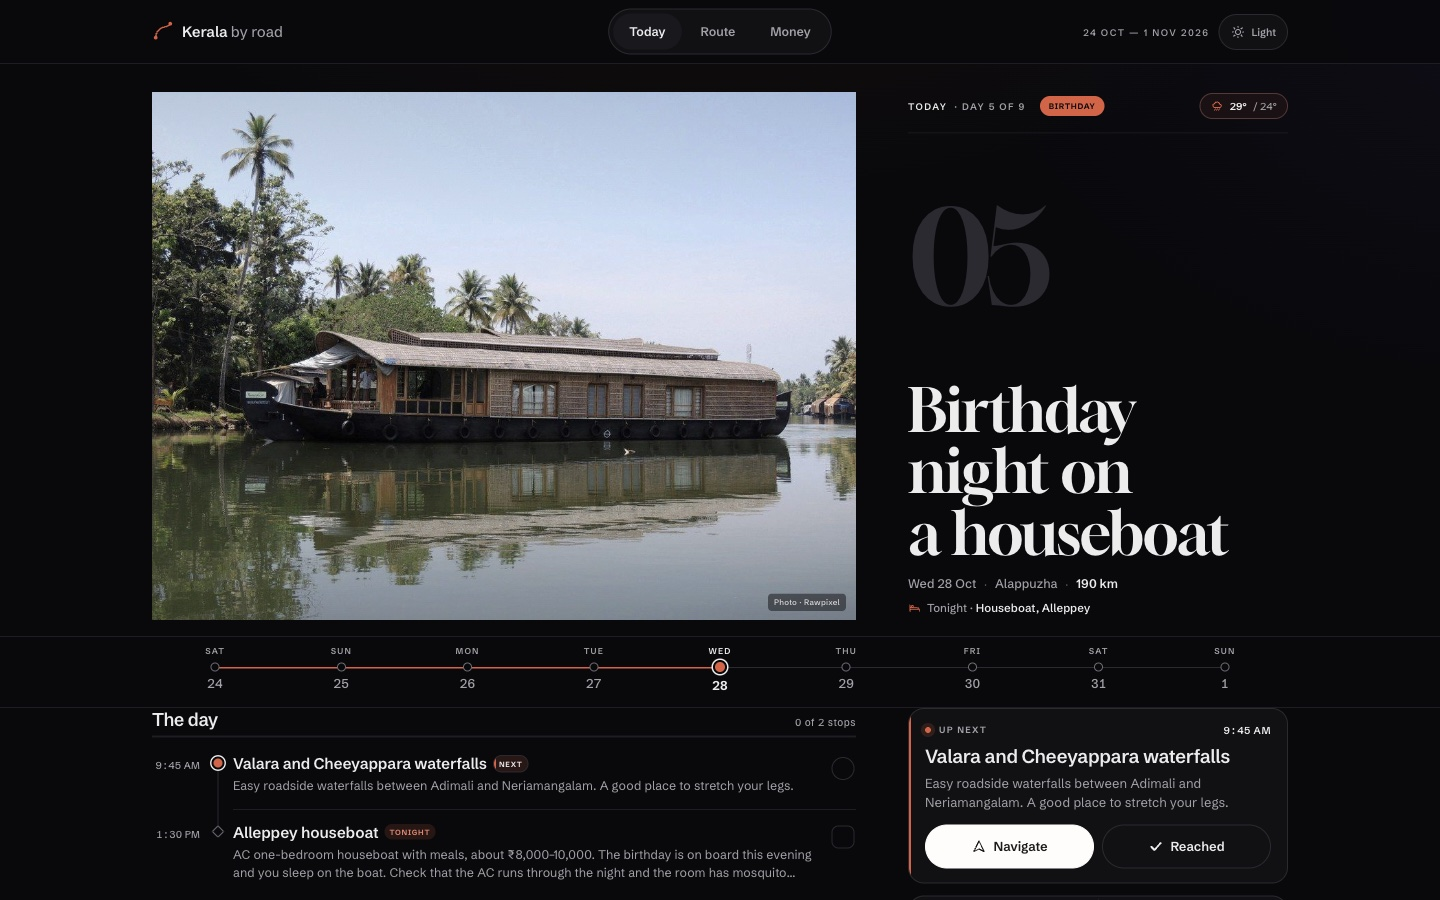
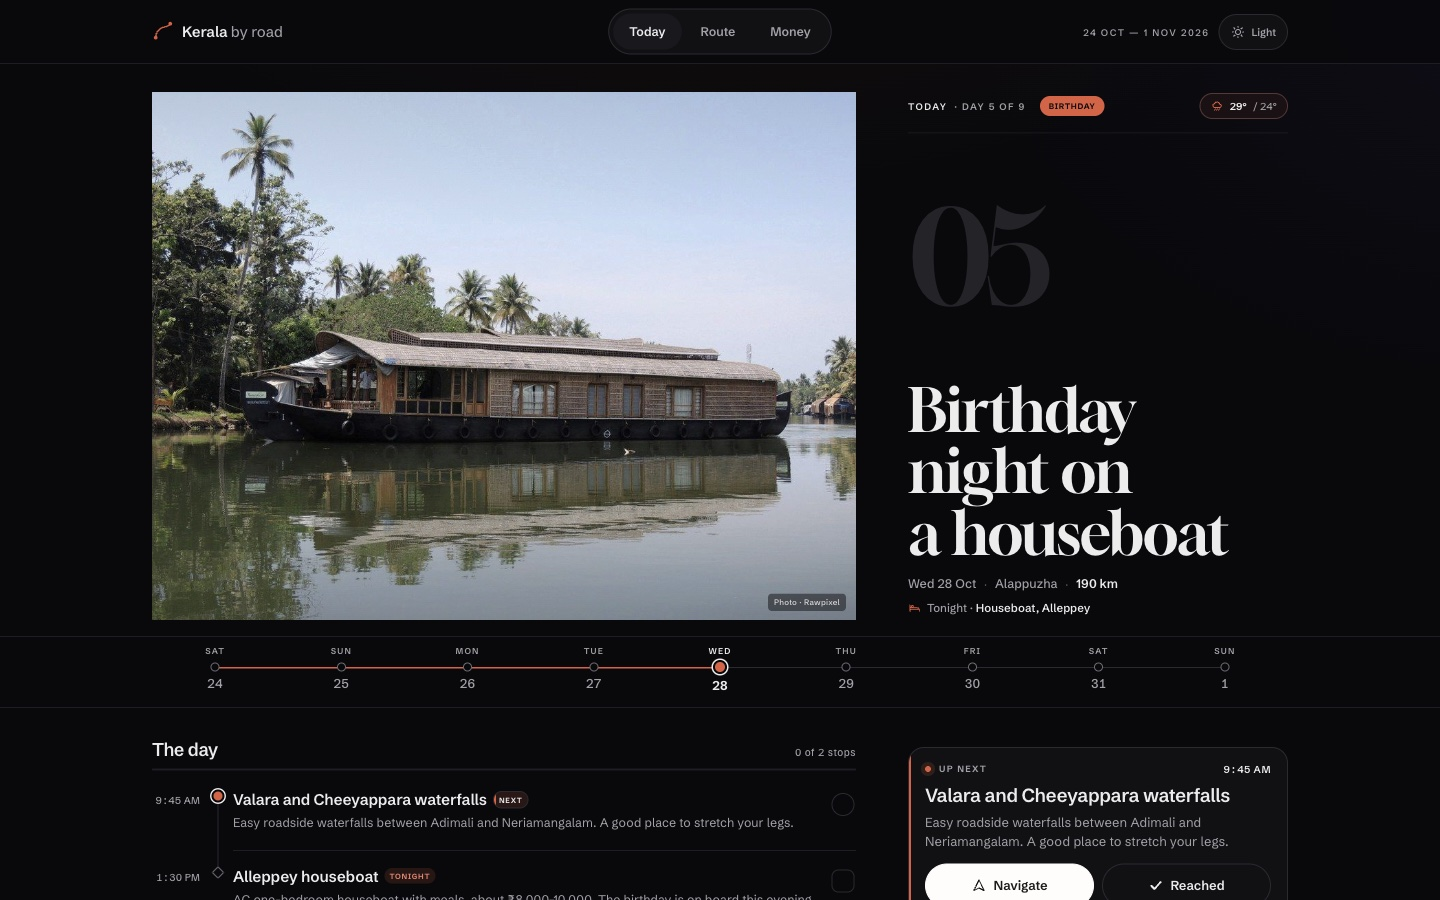
Restore desktop breathing room and fade the day numeral
The desktop width override was resetting the day wrapper's top padding, so the plan and action card sat flush against the journey strip. Restores 30px, loosens the plan rows, aligns the rail card with the section heading, and fades the large day number before it can clip under the sticky header (it was also being held at full opacity by the entrance animation). Cache bumped to v30.

Changed region(s): [[0.0938, 0.7778, 0.5625, 1.0], [0.625, 0.7778, 0.875, 1.0], [0.5625, 0.7778, 0.5938, 0.84]]

diff --git a/index.html b/index.html
@@ -266,7 +266,7 @@ main{display:block}
 .wrap{max-width:var(--content);margin:0 auto;padding:0 20px}
 .page{padding-top:25px}
 .hero-fade{animation:heroIn .6s var(--ease-out) both}
-.hero-fade .day-head>*{animation:heroUp .55s var(--ease-out) both}
+.hero-fade .day-head>*:not(.day-ghost){animation:heroUp .55s var(--ease-out) both}
 .hero-fade .day-head>*:nth-child(2){animation-delay:.04s}
 .hero-fade .day-head>*:nth-child(3){animation-delay:.08s}
 .eyebrow{display:flex;align-items:center;gap:8px;font:600 9.5px/1.4 var(--sans);letter-spacing:.15em;text-transform:uppercase;color:var(--muted)}
@@ -726,11 +726,11 @@ body[data-tab="route"] main,body[data-tab="money"] main{padding-top:0}
   .jday .jnode{width:9px;height:9px;margin-top:8px}
   .jday .jnum{font-size:12px;margin-top:6px}
   .jday[aria-current="true"] .jnode{width:14px;height:14px;margin-top:5.5px}
-  .wrap.day{max-width:1200px;padding:0 32px}
-  .day{padding-top:30px}
+  .wrap.day{max-width:1200px;padding:30px 32px 0}
+  .day{padding-top:0}
   .day-layout{display:grid;grid-template-columns:minmax(0,1fr) minmax(330px,380px);gap:52px;align-items:start}
   .day-main{grid-column:1;grid-row:1;min-width:0}
-  .day-side{grid-column:2;grid-row:1;min-width:0;position:sticky;top:90px;align-self:start}
+  .day-side{grid-column:2;grid-row:1;min-width:0;position:sticky;top:90px;align-self:start;padding-top:9px}
   .day-side .facts{grid-template-columns:1fr 1fr;margin-top:16px}
   .day-side .fact{padding:10px 0 11px}
   .day-side .fact:nth-child(odd){padding-right:14px;border-left:0}
@@ -740,6 +740,10 @@ body[data-tab="route"] main,body[data-tab="money"] main{padding-top:0}
   .stay-card{display:block}
   .day-main .sec:first-child{margin-top:0;border-top:0;padding-top:0}
   .day-main .sec{margin-top:40px}
+  .day-main .plan .sec-head{margin-bottom:8px}
+  .day-main .stop-main{padding:14px 0 17px}
+  .day-main .stop-time{padding-top:19px}
+  .day-main .stop-desc{margin-top:4px}
   .day-main .places{display:grid;grid-template-columns:1fr 1fr;column-gap:34px}
   .day-main .place:nth-child(1),.day-main .place:nth-child(2){border-top:0}
   .day-main .sec-lede{max-width:68ch}
@@ -2441,6 +2445,13 @@ function wireScroll(){
       if(TAB!=="day"){ journey.classList.remove("is-stuck"); return; }
       const top=parseFloat(getComputedStyle(journey).top)||0;
       journey.classList.toggle("is-stuck",journey.getBoundingClientRect().top<=top+1);
+      const ghost=$(".day-ghost"), mast=$(".masthead");
+      if(ghost&&mast){
+        const edge=mast.getBoundingClientRect().bottom;
+        const over=edge-ghost.getBoundingClientRect().top;
+        const fade=Math.max(0,Math.min(1,1-over/120));
+        ghost.style.opacity=String((.8*fade).toFixed(3));
+      }
     });
   };
   window.addEventListener("scroll",check,{passive:true});

diff --git a/sw.js b/sw.js
@@ -1,7 +1,7 @@
 /* Kerala by road — offline service worker.
    Bump CACHE when you change index.html or the icons. */
-const CACHE = "kerala-v29";
-const RUNTIME = "kerala-rt-v29";
+const CACHE = "kerala-v30";
+const RUNTIME = "kerala-rt-v30";
 
 const CORE = [
   "./",

diff --git a/README.md b/README.md
@@ -144,8 +144,8 @@ Edit `index.html` (and, if the photographs change, the files in
 `photos/plates/`), then **bump the cache name in `sw.js`**:
 
 ```js
-const CACHE = "kerala-v29";      // -> "kerala-v30"
-const RUNTIME = "kerala-rt-v29"; // -> "kerala-rt-v30"
+const CACHE = "kerala-v30";      // -> "kerala-v31"
+const RUNTIME = "kerala-rt-v30"; // -> "kerala-rt-v31"
 ```
 
 Then re-upload or push. Page loads prefer the network, so edits show up on the
